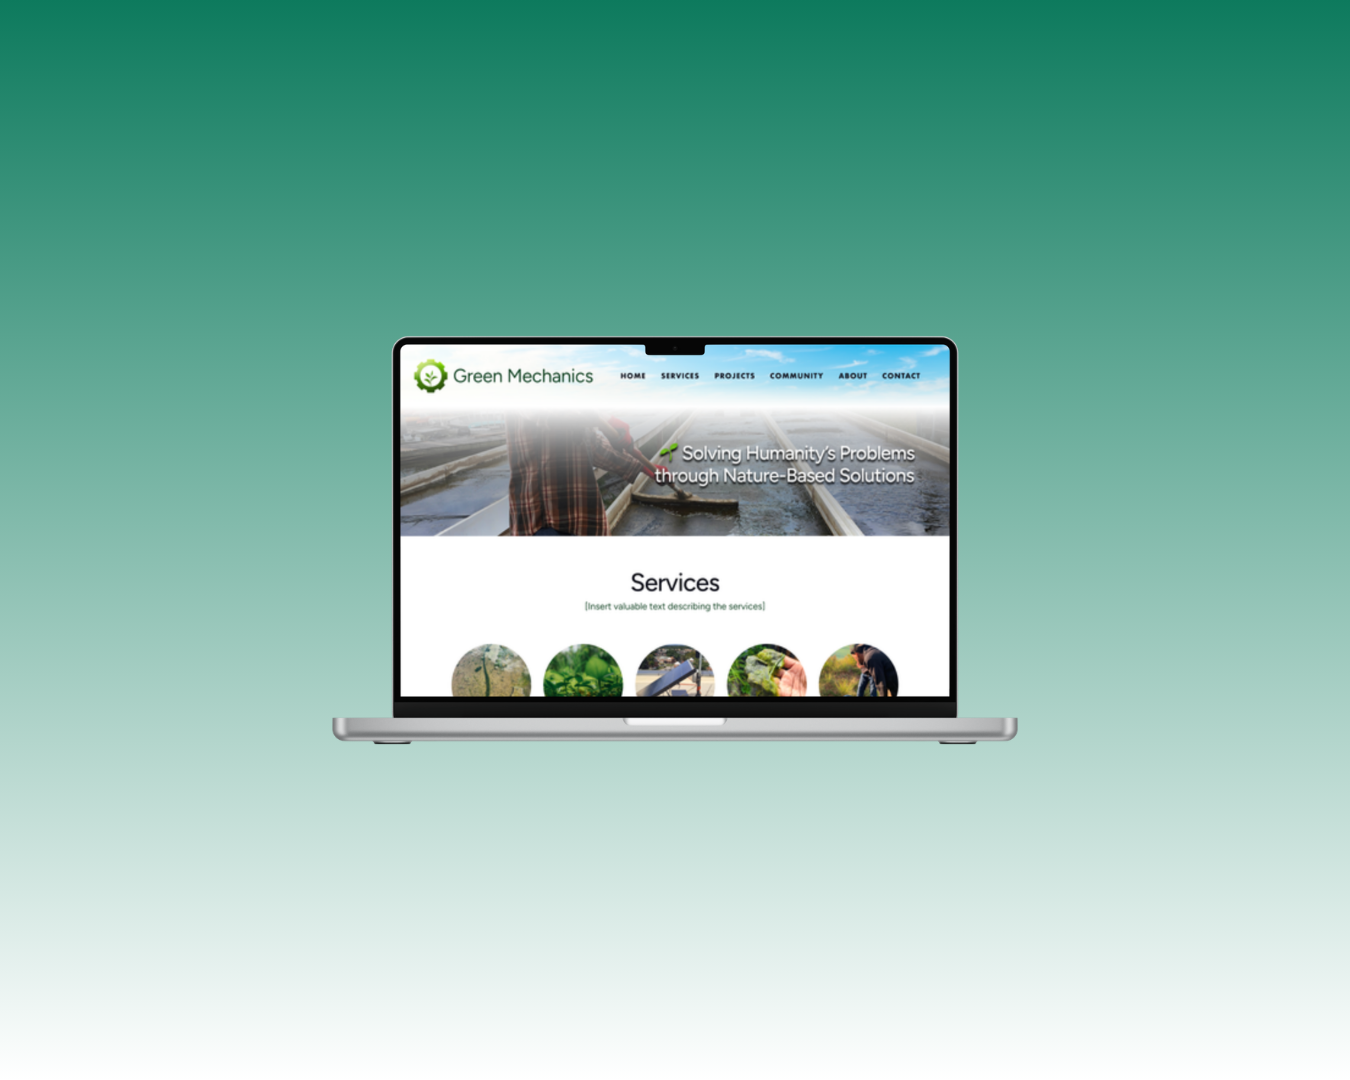
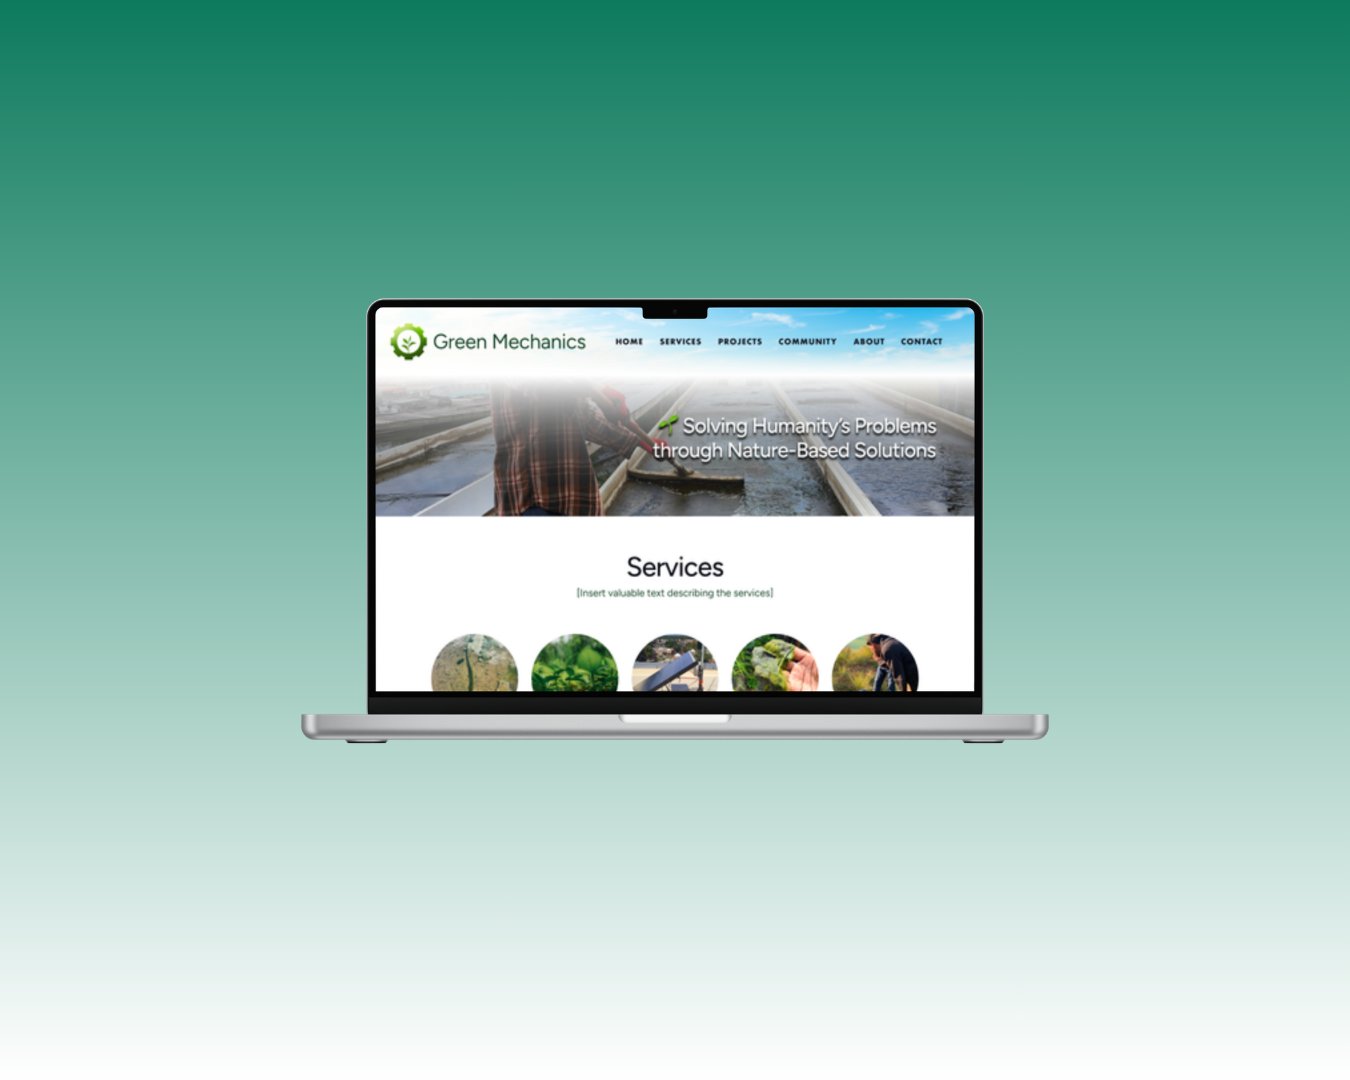
nav bar

Changed region(s): [[0.2178, 0.275, 0.7778, 0.7028]]

diff --git a/projectPages/project2.html b/projectPages/project2.html
@@ -28,11 +28,10 @@
         <div class="nav-content" id="navContent">
             <a href="../index.html" class="home-link">← Home</a>
             <div class="project-nav">
-                <a class="projec
-                t2 project-link" href="project2.html">Book Buddies</a>
-                <a class="project1 project-link" href="project1.html">Boomer Beach</a>
-                <a class="project3 project-link" href="project3.html">A Night at Home</a>
+                <a class="project2 project-link" href="project2.html">Book Buddies</a>
                 <a class="project4 project-link" href="project4.html">Green Mechanics</a>
+                <a class="project3 project-link" href="project3.html">A Night at Home</a>
+                <a class="project1 project-link" href="project1.html">Boomer Beach</a>
                 <a class="project5 project-link" href="project5.html">Broker Breaker</a>
                 <a class="about project-link" href="../about.html">About</a>
                 <a href="javascript:void(0);" class="icon" onclick="hamburgerMenu()" aria-label="Menu button">

diff --git a/about.html b/about.html
@@ -20,10 +20,10 @@
         <div class="nav-content" id="navContent">
             <a href="./index.html" class="home-link">← Home</a>
             <div class="project-nav">
-                <a class="project1 project-link" href="projectPages\project1.html">Boomer Beach</a>
+                <a class="project4 project-link" href="projectPages\project4.html">Green Mechanics</a>
                 <a class="project2 project-link" href="projectPages\project2.html">Book Buddies</a>
                 <a class="project3 project-link" href="projectPages\project3.html">A Night at Home</a>
-                <a class="project4 project-link" href="projectPages\project4.html">Green Mechanics</a>
+                <a class="project1 project-link" href="projectPages\project1.html">Boomer Beach</a>
                 <a class="project5 project-link" href="projectPages\project5.html">Broker Breaker</a>
                 <a class="about project-link" href="about.html">About</a>
                 <a href="javascript:void(0);" class="icon" onclick="hamburgerMenu()" aria-label="Menu button">

diff --git a/projectPages/project1.html b/projectPages/project1.html
@@ -25,11 +25,11 @@
             <a href="../index.html" class="home-link">← Home</a>
             <div class="project-nav">
                 <a class="project1 project-link" href="project1.html">Boomer Beach</a>
+                <a class="project4 project-link" href="project4.html">Green Mechanics</a>
                 <a class="project2 project-link" href="project2.html">Book Buddies</a>
                 <a class="project3 project-link" href="project3.html">A Night at Home</a>
-                <a class="project4 project-link" href="project4.html">Green Mechanics</a>
                 <a class="project5 project-link" href="project5.html">Broker Breaker</a>
-                <a class="about project-link" href="../about.html">About</a>
+                <a class="about project-link" href="about.html">About</a>
                 <a href="javascript:void(0);" class="icon" onclick="hamburgerMenu()" aria-label="Menu button">
                     <i class="fa fa-bars" aria-hidden="true"></i>
                 </a>

diff --git a/projectPages/project5.html b/projectPages/project5.html
@@ -30,10 +30,10 @@
             <a href="../index.html" class="home-link">← Home</a>
             <div class="project-nav">
                 <a class="project5 project-link" href="project5.html">Broker Breaker</a>
+                <a class="project4 project-link" href="project4.html">Green Mechanics</a>
+                <a class="project2 project-link" href="project2.html">Book Buddies</a>
                 <a class="project3 project-link" href="project3.html">A Night at Home</a>
                 <a class="project1 project-link" href="project1.html">Boomer Beach</a>
-                <a class="project2 project-link" href="project2.html">Book Buddies</a>
-                <a class="project4 project-link" href="project4.html">Green Mechanics</a>
                 <a class="about project-link" href="../about.html">About</a>
                 <a href="javascript:void(0);" class="icon" onclick="hamburgerMenu()" aria-label="Menu button">
                     <i class="fa fa-bars" aria-hidden="true"></i>

diff --git a/projectPages/project3.html b/projectPages/project3.html
@@ -30,9 +30,9 @@
             <a href="../index.html" class="home-link">← Home</a>
             <div class="project-nav">
                 <a class="project3 project-link" href="project3.html">A Night at Home</a>
-                <a class="project1 project-link" href="project1.html">Boomer Beach</a>
                 <a class="project2 project-link" href="project2.html">Book Buddies</a>
                 <a class="project4 project-link" href="project4.html">Green Mechanics</a>
+                <a class="project1 project-link" href="project1.html">Boomer Beach</a>
                 <a class="project5 project-link" href="project5.html">Broker Breaker</a>
                 <a class="about project-link" href="../about.html">About</a>
                 <a href="javascript:void(0);" class="icon" onclick="hamburgerMenu()" aria-label="Menu button">

diff --git a/projectPages/project4.html b/projectPages/project4.html
@@ -29,9 +29,9 @@
             <a href="../index.html" class="home-link">← Home</a>
             <div class="project-nav">
                 <a class="project4 project-link" href="project4.html">Green Mechanics</a>
-                <a class="project1 project-link" href="project1.html">Boomer Beach</a>
                 <a class="project2 project-link" href="project2.html">Book Buddies</a>
                 <a class="project3 project-link" href="project3.html">A Night at Home</a>
+                <a class="project1 project-link" href="project1.html">Boomer Beach</a>
                 <a class="project5 project-link" href="project5.html">Broker Breaker</a>
                 <a class="about project-link" href="../about.html">About</a>
                 <a href="javascript:void(0);" class="icon" onclick="hamburgerMenu()" aria-label="Menu button">